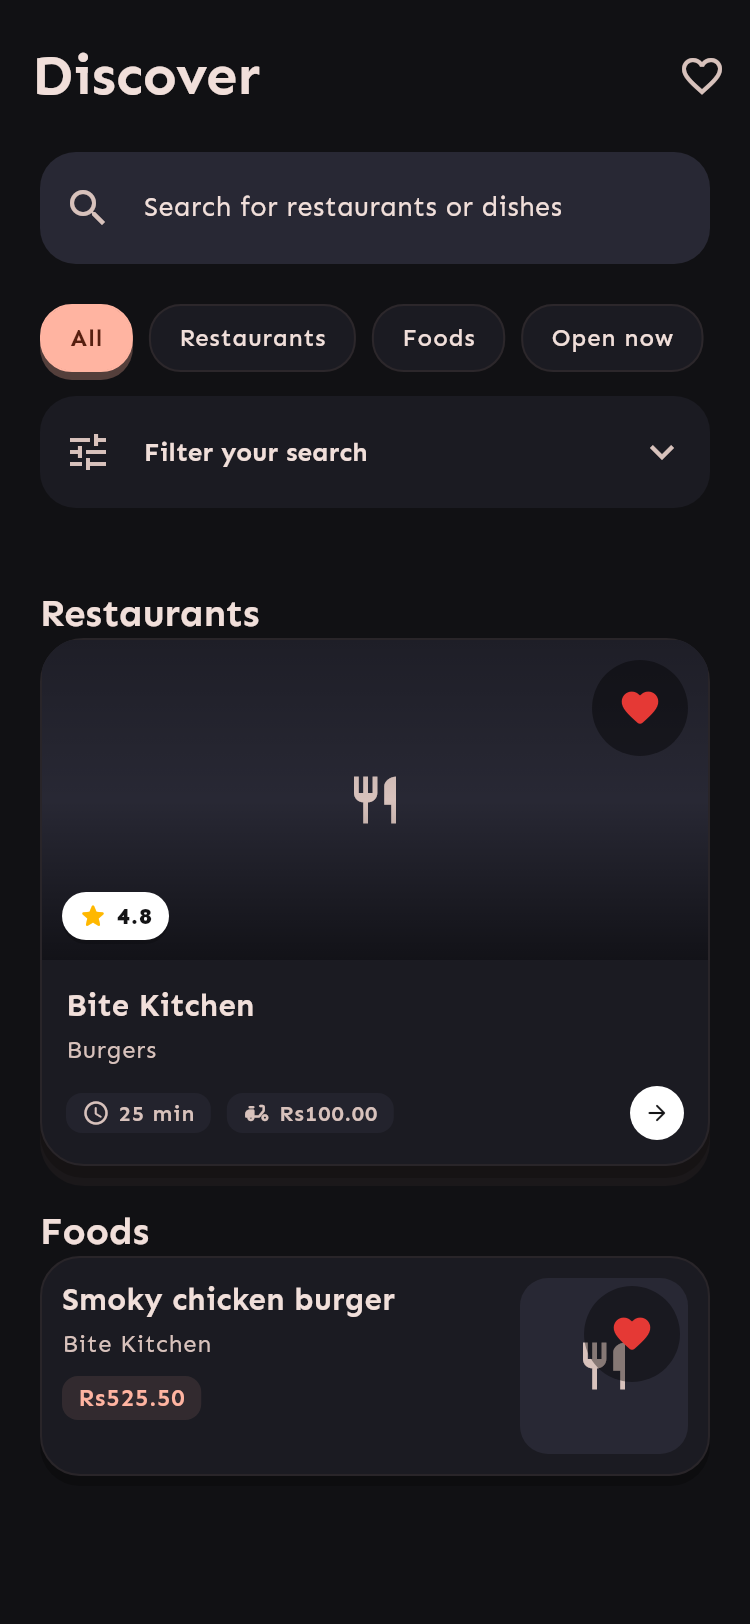
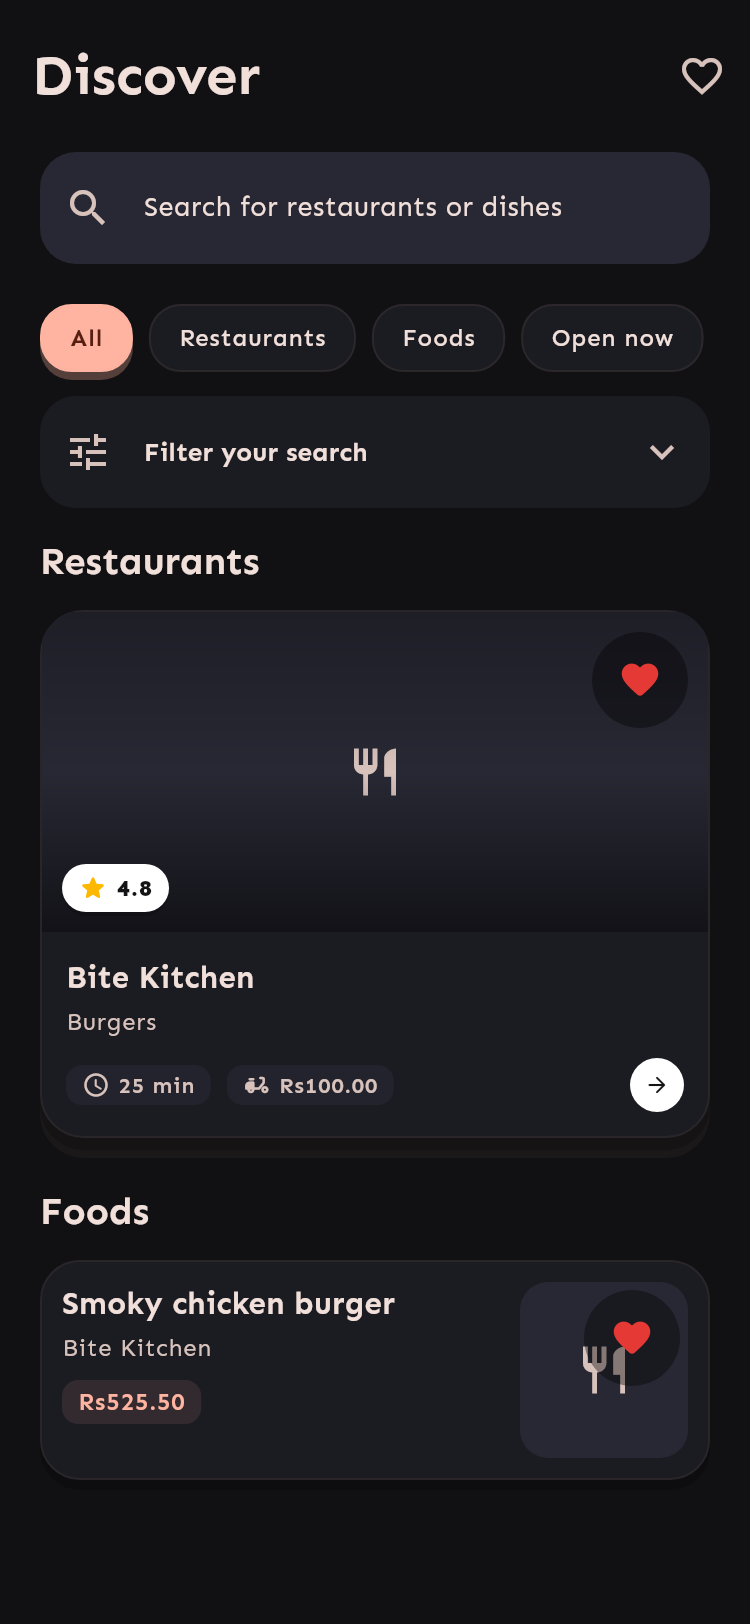
fix(discovery): remove ghost padding between filter and list, add spacing below section headings

diff --git a/lib/features/discovery/sections/discovery_status_section.dart b/lib/features/discovery/sections/discovery_status_section.dart
@@ -10,6 +10,7 @@ import 'package:bite_food_delivery/app/routes/app_navigation.dart';
 class DiscoveryStatusSection extends StatelessWidget {
   const DiscoveryStatusSection({super.key, this.savedOnly = false});
   final bool savedOnly;
+
   @override
   Widget build(BuildContext context) {
     final state = context.watch<DiscoveryCubit>().state;
@@ -17,44 +18,48 @@ class DiscoveryStatusSection extends StatelessWidget {
     final c = context.read<DiscoveryCubit>();
     final t = AppLocalizations.of(context)!;
     final saved = savedOnly ? favourites.keys : null;
+
+    final Widget? feedbackWidget = savedOnly && favourites.userId == null
+        ? AppFeedback(
+            message: t.pleaseSignInToContinue,
+            actionLabel: t.login,
+            onAction: () => AppNavigation.push(context, '/login_screen'),
+          )
+        : savedOnly && favourites.failed
+        ? AppFeedback(
+            message: t.catalogLoadFailure,
+            actionLabel: t.retryAction,
+            onAction: () => context.read<FavouriteCubit>().bindUser(
+              favourites.userId,
+              retry: true,
+            ),
+          )
+        : (state.loading && !state.loaded) || (savedOnly && favourites.loading)
+        ? const AppLoadingCard()
+        : state.failed
+        ? AppFeedback(
+            message: state.loaded
+                ? t.catalogRefreshFailure
+                : t.catalogLoadFailure,
+            actionLabel: t.retryAction,
+            onAction: c.load,
+          )
+        : state.restaurantResults(saved: saved).isEmpty &&
+              state.foodResults(saved: saved).isEmpty
+        ? AppFeedback(
+            message: t.discoveryEmpty,
+            actionLabel: t.discoveryReset,
+            onAction: c.reset,
+          )
+        : null;
+
+    if (feedbackWidget == null) {
+      return const SliverToBoxAdapter();
+    }
+
     return SliverPadding(
-      padding: context.contentInsets(),
-      sliver: SliverToBoxAdapter(
-        child: savedOnly && favourites.userId == null
-            ? AppFeedback(
-                message: t.pleaseSignInToContinue,
-                actionLabel: t.login,
-                onAction: () => AppNavigation.push(context, '/login_screen'),
-              )
-            : savedOnly && favourites.failed
-            ? AppFeedback(
-                message: t.catalogLoadFailure,
-                actionLabel: t.retryAction,
-                onAction: () => context.read<FavouriteCubit>().bindUser(
-                  favourites.userId,
-                  retry: true,
-                ),
-              )
-            : (state.loading && !state.loaded) ||
-                  (savedOnly && favourites.loading)
-            ? const AppLoadingCard()
-            : state.failed
-            ? AppFeedback(
-                message: state.loaded
-                    ? t.catalogRefreshFailure
-                    : t.catalogLoadFailure,
-                actionLabel: t.retryAction,
-                onAction: c.load,
-              )
-            : state.restaurantResults(saved: saved).isEmpty &&
-                  state.foodResults(saved: saved).isEmpty
-            ? AppFeedback(
-                message: t.discoveryEmpty,
-                actionLabel: t.discoveryReset,
-                onAction: c.reset,
-              )
-            : const SizedBox.shrink(),
-      ),
+      padding: context.contentInsets(bottom: 16),
+      sliver: SliverToBoxAdapter(child: feedbackWidget),
     );
   }
 }

diff --git a/lib/features/discovery/sections/discovery_restaurants_section.dart b/lib/features/discovery/sections/discovery_restaurants_section.dart
@@ -27,10 +27,18 @@ class DiscoveryRestaurantsSection extends StatelessWidget {
       return const SliverToBoxAdapter();
     }
     return SliverPadding(
-      padding: context.contentInsets(),
+      padding: context.contentInsets(bottom: 24),
       sliver: SliverMainAxisGroup(
         slivers: [
-          SliverToBoxAdapter(child: AppSectionHeading(title: t.restaurants)),
+          SliverToBoxAdapter(
+            child: Column(
+              crossAxisAlignment: CrossAxisAlignment.start,
+              children: [
+                AppSectionHeading(title: t.restaurants),
+                12.verticalSpace,
+              ],
+            ),
+          ),
           SliverList.separated(
             itemCount: items.length.clamp(0, state.limit),
             separatorBuilder: (_, _) => 16.verticalSpace,

diff --git a/lib/features/discovery/sections/discovery_foods_section.dart b/lib/features/discovery/sections/discovery_foods_section.dart
@@ -26,10 +26,18 @@ class DiscoveryFoodsSection extends StatelessWidget {
       return const SliverToBoxAdapter();
     }
     return SliverPadding(
-      padding: context.contentInsets(),
+      padding: context.contentInsets(bottom: 24),
       sliver: SliverMainAxisGroup(
         slivers: [
-          SliverToBoxAdapter(child: AppSectionHeading(title: t.foods)),
+          SliverToBoxAdapter(
+            child: Column(
+              crossAxisAlignment: CrossAxisAlignment.start,
+              children: [
+                AppSectionHeading(title: t.foods),
+                12.verticalSpace,
+              ],
+            ),
+          ),
           SliverList.separated(
             itemCount: items.length.clamp(0, state.limit),
             separatorBuilder: (_, _) => 16.verticalSpace,

diff --git a/lib/features/discovery/sections/discovery_filters_section.dart b/lib/features/discovery/sections/discovery_filters_section.dart
@@ -11,7 +11,7 @@ class DiscoveryFiltersSection extends StatelessWidget {
   const DiscoveryFiltersSection({super.key});
   @override
   Widget build(BuildContext context) => SliverPadding(
-    padding: context.contentInsets(),
+    padding: context.contentInsets(bottom: 14),
     sliver: SliverToBoxAdapter(
       child: BlocBuilder<DiscoveryCubit, DiscoveryState>(
         builder: (context, state) {

diff --git a/lib/features/discovery/sections/discovery_more_section.dart b/lib/features/discovery/sections/discovery_more_section.dart
@@ -18,7 +18,7 @@ class DiscoveryMoreSection extends StatelessWidget {
       return const SliverToBoxAdapter();
     }
     return SliverPadding(
-      padding: context.contentInsets(),
+      padding: context.contentInsets(bottom: 84),
       sliver: SliverToBoxAdapter(
         child: AppPrimaryButton(
           label: AppLocalizations.of(context)!.discoveryMore,
